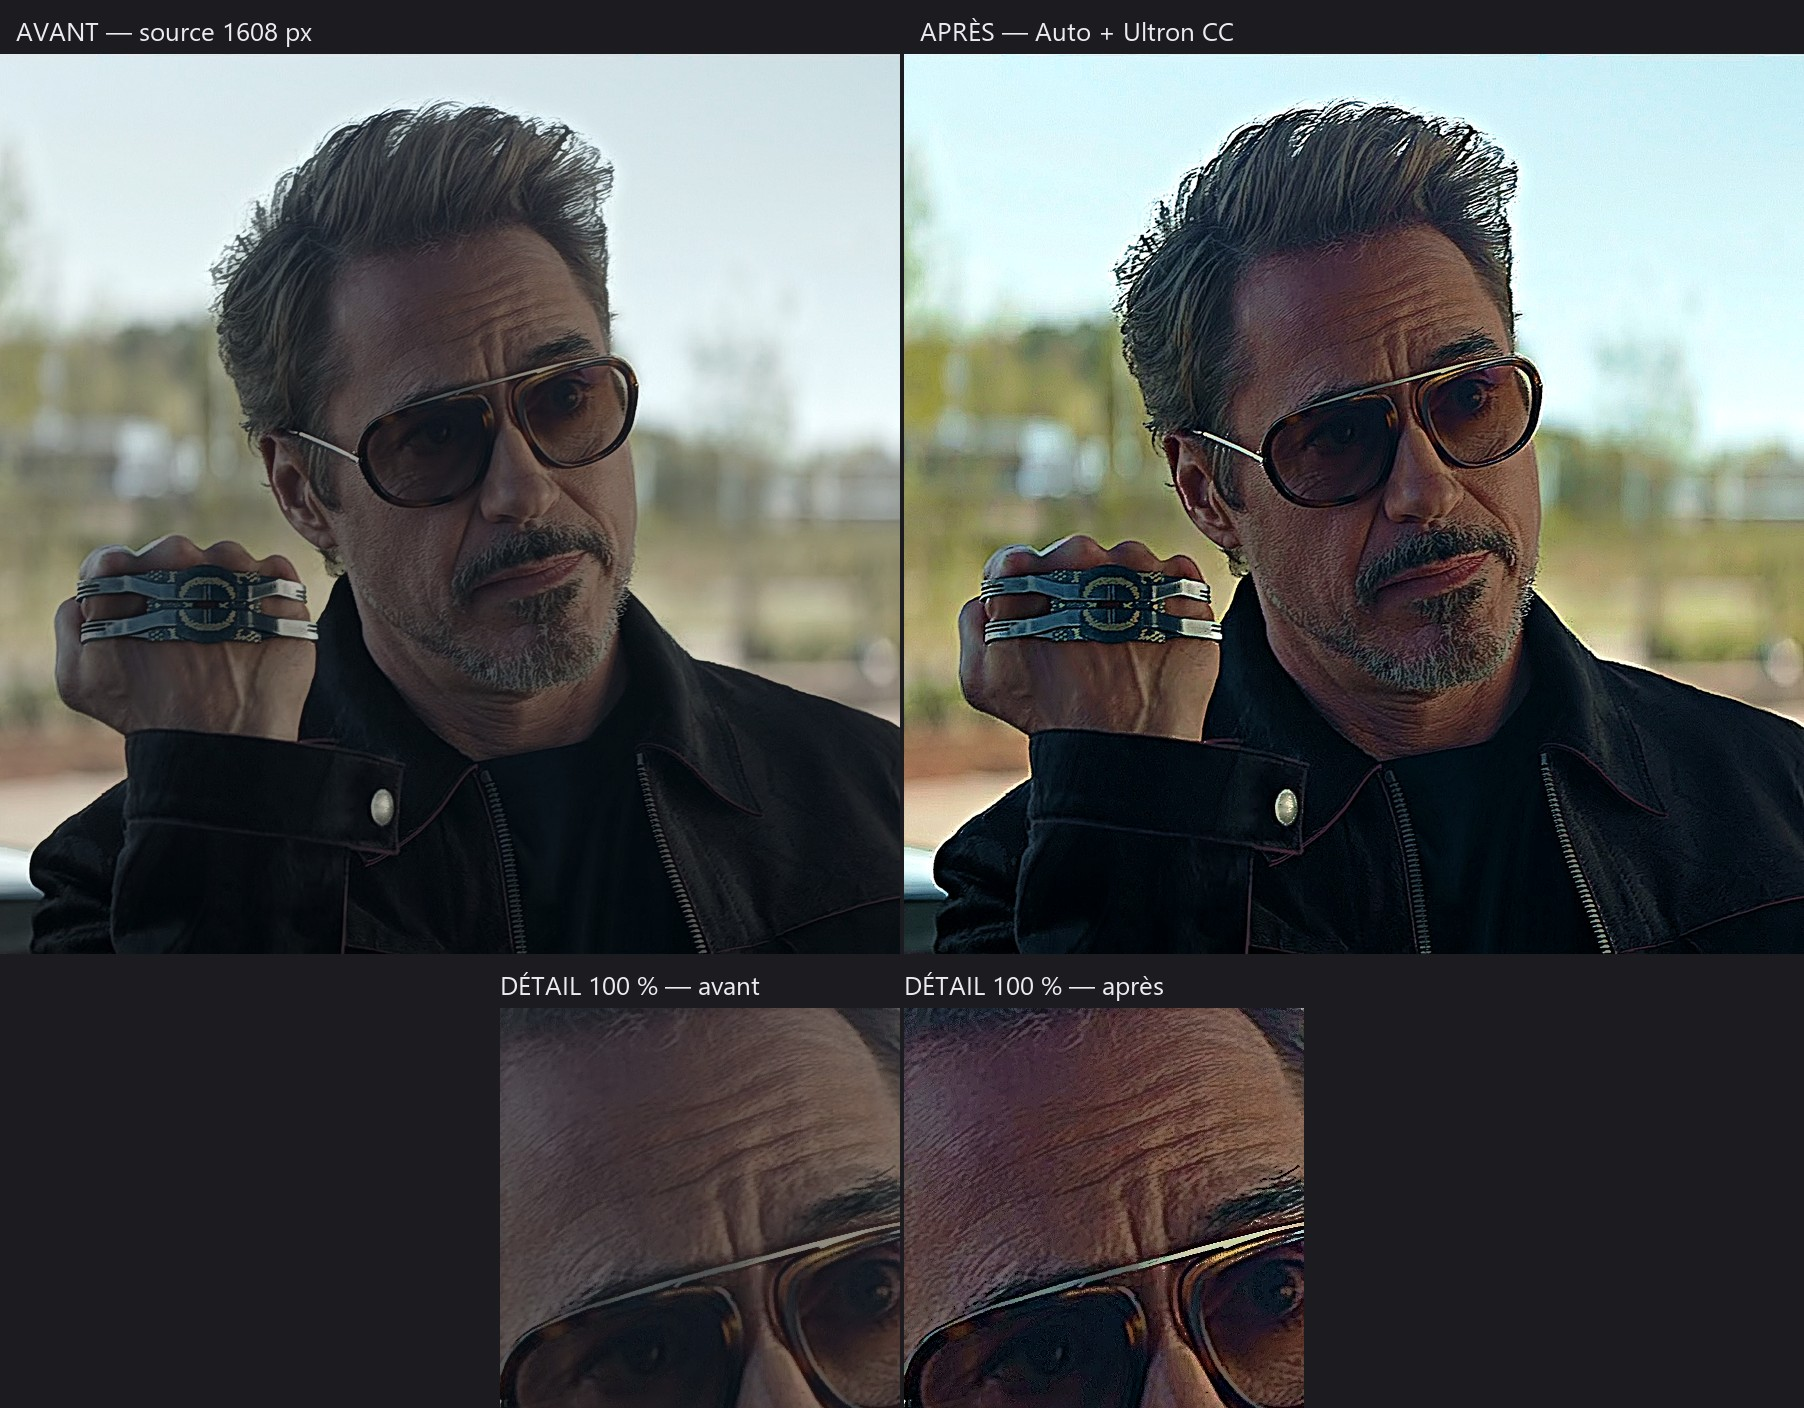
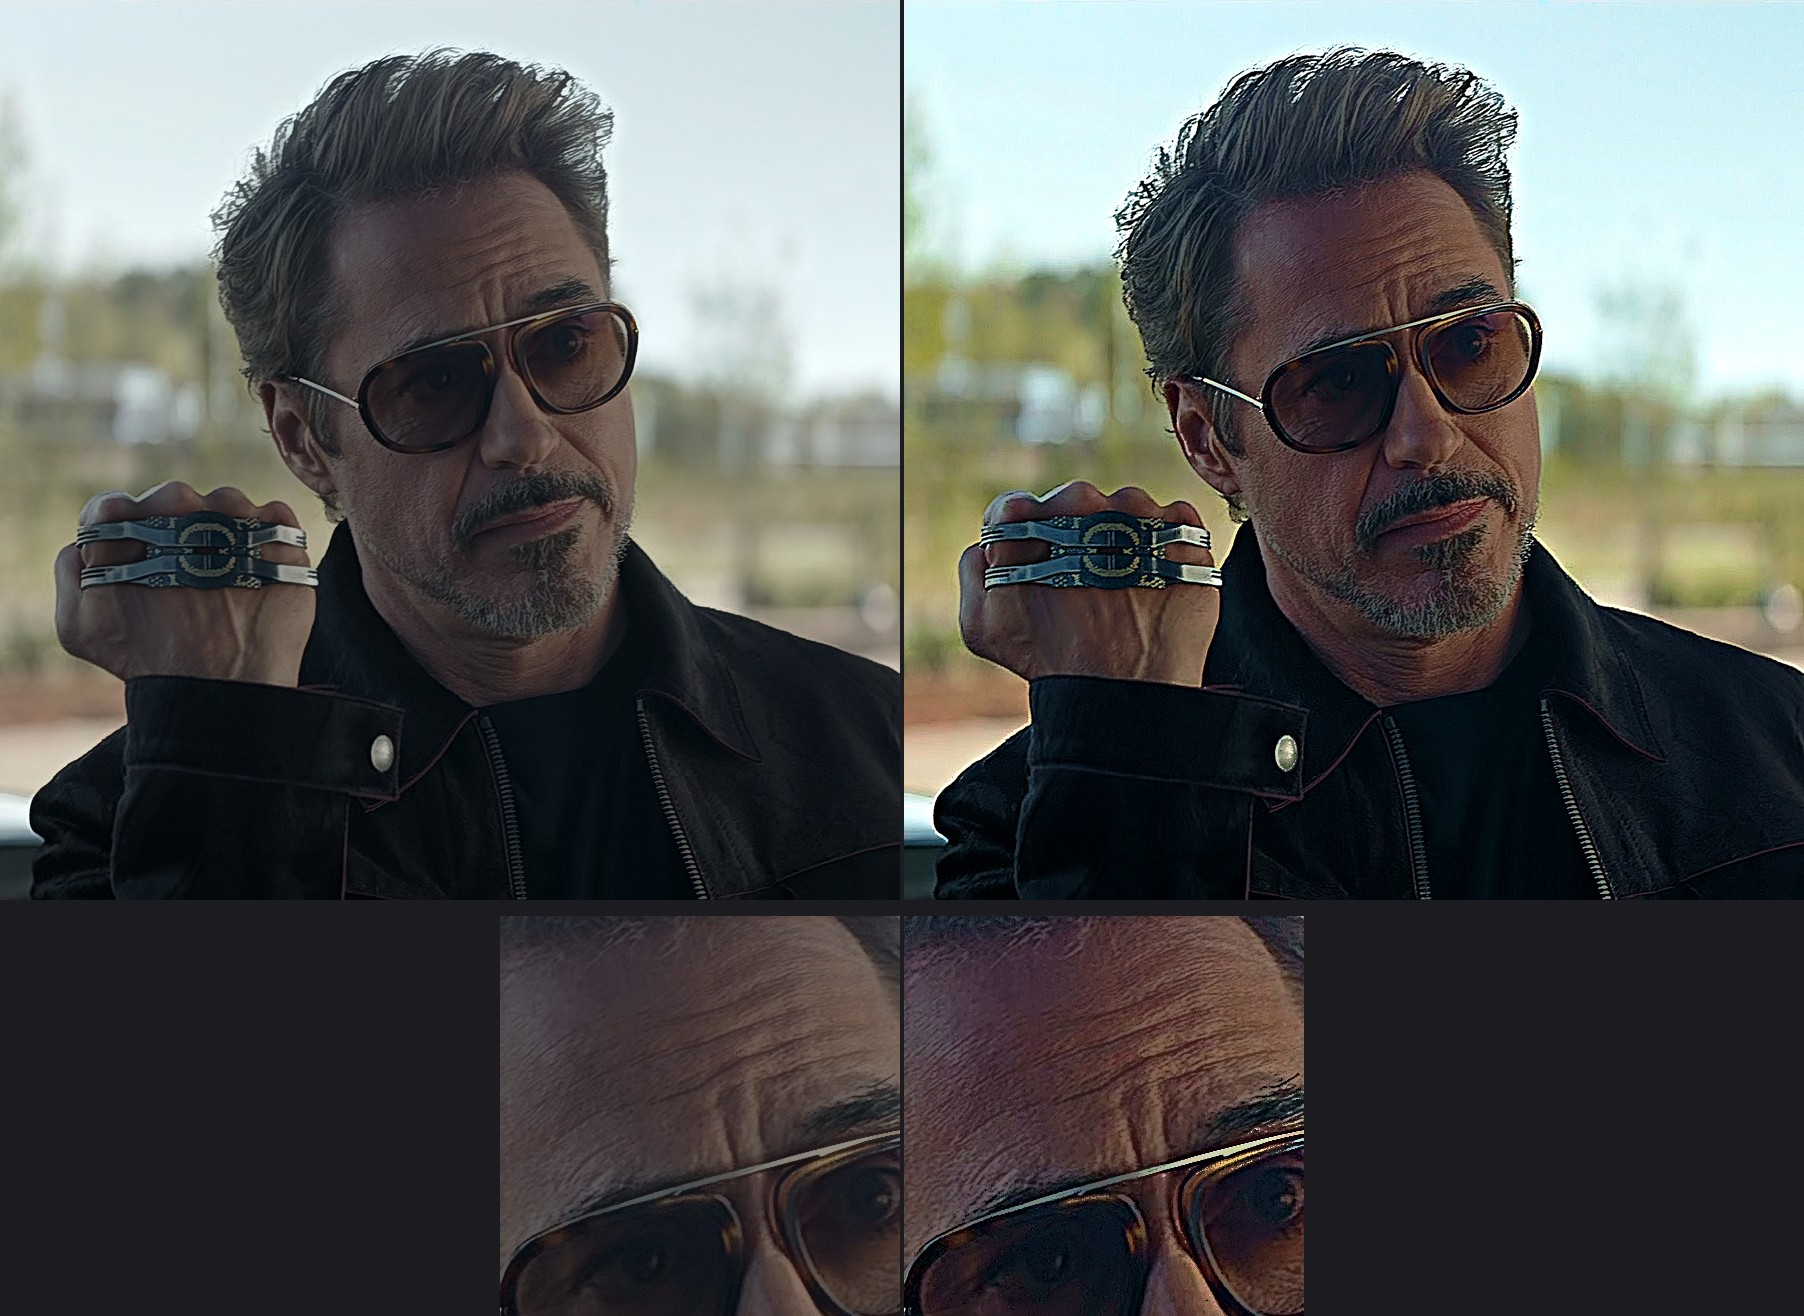
Allège les images de démonstration du README
Retire les libellés incrustés des trois comparatifs : le sens de lecture
et le détail à 100 % sont désormais expliqués dans le README FR et EN.

🤖 Generated with Codebuff

diff --git a/README.en.md b/README.en.md
@@ -242,7 +242,8 @@ table images are JPEGs reduced to 900 px; the working files are not distributed.
 ### 🧪 Two demonstrations + an upscale bonus
 
 Two cases produced by the Image page pipeline, with the exact settings, plus an ×4
-upscale bonus. Each comparison includes a 100% detail.
+upscale bonus. Each comparison reads left to right: before, then after; the second
+row is a 100% detail.
 
 **1. 1608 px photo — Auto + Ultron CC**
 
